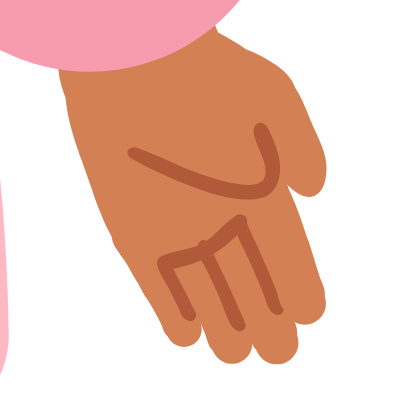
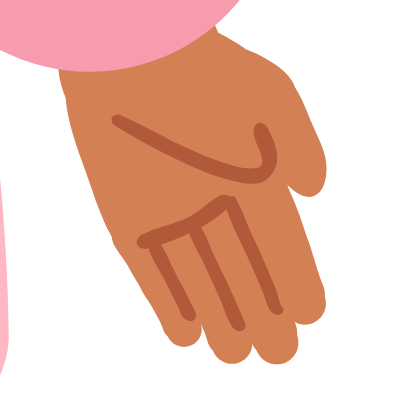
R19 SHIP + polish: far palm lines toward the wrist, buried comb caps, near thenar follows thumb; char_check lints mid-line comments

Changed region(s): [[0.2476, 0.2786, 0.681, 0.65]]

diff --git a/engine/hand.js b/engine/hand.js
@@ -119,7 +119,7 @@ export function makeHand(spec) {
     // the thumb-side envelope follows the thumb: as it ADDUCTS toward the palm (library ts < 0) the envelope pulls in with it
     // (continuous in the pose), so it never stands proud of a tucked thumb (R15 press kink)
     const tsLib = -(ctx.pose?.bones?.[`${id}.ts`] ?? 0) * S.thumbSide, tFoldE = ['t0', 't1', 't2'].reduce((acc, b) => acc + (ctx.pose?.bones?.[`${id}.${b}`] ?? 0), 0);
-    const thE = S.thenarEdge.map((v, k) => (k === 0 ? v : v - (v - 1.0) * Math.min(0.5, clamp01(Math.max(-tsLib / 12, tFoldE / 70)))));   // capped: a notch stays on the outer edge so the silhouette still says 'thumb'   // follows adduction AND flexion of the thumb   // only the distal anchor: the proximal one sits over the thenar pad, which stays put
+    const thE = S.thenarEdge.map((v, k) => (k === 0 ? v : v - (v - 1.0) * Math.min(S.view === 'back' ? 1 : 0.5, clamp01(Math.max(-tsLib / 12, tFoldE / 70)))));   // capped: a notch stays on the outer edge so the silhouette still says 'thumb'   // follows adduction AND flexion of the thumb   // only the distal anchor: the proximal one sits over the thenar pad, which stays put
     const palm = [
       P(-0.7 * wW, -0.7 * wW), add(lerp(P(-0.04, -wW), pinkyRoot, 0.5), mulS(n, -S.hypo)), [...pinkyRoot, { c: true, ai: inA(pinkyRoot, add(lerp(P(-0.04, -wW), pinkyRoot, 0.5), mulS(n, -S.hypo)), pinkyA + 180, pkCurl), ti: 1.05 - 0.5 * pkCurl, ao: Math.atan2(F[3].k[1] - pinkyRoot[1], F[3].k[0] - pinkyRoot[0]) * 180 / Math.PI }],   // corner: arrives along the pinky's edge, leaves ACROSS the knuckle (never bulges past it when the pinky curls)   // arrives tangent to the pinky's outer edge   // R9: one convex edge from the wrist to the pinky's root (no dent, no step)
       ...[3, 2, 1].map(webAt), add(kn[0], mulS(u, 0.018)),   // WEBBING: between two knuckles the palm's edge dips to where the fingers meet (≈ webK of the first phalanx) — hidden when the fingers are together, the V of skin between spread fingers, and no enclosed gap at the roots
@@ -175,7 +175,7 @@ export function makeHand(spec) {
       const PK = posed(`${fid}a`, f.k, f.k), PP = posed(`${fid}b`, f.p, f.p), PQ = posed(`${fid}c`, f.q, f.q), PT = posed(`${fid}c`, f.t, f.q), PR = posed(`${fid}s`, root, f.k);
       const bdir = (b) => rot(dK, ctx.st ? ctx.st[b].rot : 0);
       /** rest distance along the finger from the knuckle → posed point + posed direction */
-      const along = (dd) => dd <= La ? [lerp(PK, PP, clamp01(dd / La)), bdir(`${fid}a`)] : dd <= La + Lb ? [lerp(PP, PQ, (dd - La) / Lb), bdir(`${fid}b`)] : [lerp(PQ, PT, clamp01((dd - La - Lb) / Lc)), bdir(`${fid}c`)];
+      const along = (dd) => dd <= La ? [lerp(PK, PP, Math.min(1, dd / La)), bdir(`${fid}a`)] : dd <= La + Lb ? [lerp(PP, PQ, (dd - La) / Lb), bdir(`${fid}b`)] : [lerp(PQ, PT, clamp01((dd - La - Lb) / Lc)), bdir(`${fid}c`)];
       const EP = along(La + dE)[0], MP = along(La + dM)[0];
       out.push({ id: fid, bone: `${fid}c`, z: zf, fill, world: true,
                  geom: tubeOf([PR, PK, PP, MP, EP], [f.r[0] * 0.8, f.r[0], f.r[1], rAt(dM), rAt(dE)], 0, S.tipK, 'none') });   // round fingertip pad; FLAT root sunk in the palm (a round root bulges past the palm's edge)
@@ -265,7 +265,8 @@ export function makeHand(spec) {
       const ok = rs.length >= 2, along0 = (j) => rot(norm(sub(F[j].p, F[j].k)), ctx.st ? ctx.st[`${id}.f${j + 1}a`].rot : 0);   // posed first-phalanx direction
       if (ok) {
         const fd = norm([0, 1, 2, 3].reduce((acc, j) => add(acc, along0(j)), [0, 0])), bow = mulS(fd, 0.015 * clamp01(mcpAvg / 40));
-        let b0 = rs[rs.length - 1]; const b2 = rs[0], bm = add(rs.length > 2 ? rs[1] : lerp(b0, b2, 0.5), bow), half = (pt) => lerp(bm, pt, keepB);
+        const sink = mulS(fd, -0.008), rsS = rs.map((p_) => add(p_, sink));   // the spine runs half a line width toward the wrist of the line starts: their round caps are buried in it (no nubs at the T-joins)
+        let b0 = rsS[rsS.length - 1]; const bmid = add(rsS.length > 2 ? rsS[1] : lerp(b0, rsS[0], 0.5), bow), b2 = add(rsS[0], mulS(norm(sub(rsS[0], bmid)), 0.012)), bm = bmid, half = (pt) => lerp(bm, pt, keepB);   // pinky end runs 0.012 H past its line: a T, not an L
         // clearance from the crease ≥ creaseGap: shorten the spine from its index end, never move the crease
         if (creaseP) { const dmin = (pt) => Math.min(...creaseP.map((c) => Math.hypot(c[0] - pt[0], c[1] - pt[1])));
           for (let k = 0; k < 10 && dmin(half(b0)) < S.creaseGap; k++) b0 = lerp(b0, bm, 0.15); }

diff --git a/characters/mum2/params.js b/characters/mum2/params.js
@@ -99,7 +99,7 @@ export const handSpecs = {
   // far (her left) hand: palm toward us, thumb on the OUTER edge (her front = right), lying in front of the palm; its
   // inner edge is drawn as a line over the palm (as in the reference)
   far: { id: 'hand.far', parentBone: 'hand.far', wrist: joints.wristFar, dir: dirTo(joints.wristFar, lm('fingertipFar')) - 4, view: 'palm',
-         length: 0.38, palmFrac: 0.52, wristW: 0.25, palmW: 0.265, hypo: 0.0, thumbSide: 1, fingerK: 1.08, fingerLen: [0.84, 1.0, 0.9, 0.72], across: [0.3, 0.08, -0.15, -0.37], flexFx: -0.14,
+         length: 0.38, palmFrac: 0.52, wristW: 0.25, palmW: 0.265, hypo: 0.0, thumbSide: 1, fingerK: 1.08, fingerLen: [0.84, 1.0, 0.9, 0.72], lineStart: -0.25, crease: [[0.0, -0.4]], creaseHook: [0.68, 0.5], across: [0.3, 0.08, -0.15, -0.37], flexFx: -0.14,   // R19: the palm's line system sits toward the wrist (reference landmark band): long finger lines, crease on the heel
          thumbFx: -0.35, thumb: { cmc: [0.0, 0.6], mcp: [0.3, 1.15], dir: -3, w: 1.05 }, thenarEdge: [1.35, 1.32], thumbLine: false, order: [3, 2, 1, 0] },   // its inner edge is drawn by the crease stroke   // thumb lies ALONG the outer edge in front of the palm (adducted), tip at ~45% of the hand
 };
 

diff --git a/characters/mum2/critic_log.md b/characters/mum2/critic_log.md
@@ -103,3 +103,7 @@ Audits: pixel 0 on stand and on 6/7 library poses (open: logged staging tangent)
 Asked: (HIGH) far cup reads as a mitten (comb faded too early): keep the comb through cup, spine in posed space through the line starts, bowing with knuckle flexion; (HIGH) far press: crease hook dragged onto the comb by the thumb's skinning (a knot): hook on the palm, clearance ≥ 0.04 H; (med) far thumb in grip/fist/point: no barbs; (low) near cup thenar shelf; polish.
 Done: crease built IN POSED SPACE — long arm + hook on the palm (hand bone), only the up-arm on the thumb (t1); hook at [0.86, 0.55] (clear of the finger roots); comb spine IN POSED SPACE through the posed starts of the separation lines (T-joins by construction), bowing 0.015 H toward the fingertips with knuckle flexion, shortened from its index end to keep creaseGap 0.04 from the crease; palm-view comb fades [65, 30] (lines) and (mcp−42)/12 (spine): present in cup, gone cleanly in grip/fist; folded-thumb outline fades out by tFold 80 (no barbs in grip). Note on scope: the planned shots never show the far hand palm-on in a curl — hands on the bump and hand to mouth are BACK views (the far hand turns its back to us when it rests on the bump); the far palm view is the hanging/idle hand.
 Audits: pixel 0 on stand and 6/7 library poses (open: logged staging tangent); corners: one 17° micro-bend on stand (≈1.4 px at 1080).
+
+## R19 — 4/4/4/4/4/4 — SHIP (hands: R18 HIGHs landed; back-view hands read as real hands; library distinct)
+Polish applied after SHIP (critic's med items): far palm line system moved toward the wrist (lineStart −0.25: lines begin just above the knuckles; crease start [0, −0.4] on the heel; hook [0.68, 0.5]) so the comb reads as finger divisions, not glyphs; the spine runs half a line width wrist-side of the line starts (round caps buried, no nubs) and ends in a T past the pinky line; near (back-view) thenar envelope follows thumb flexion/adduction fully (no shelf in press/cup). Remaining polish (logged, not blocking): near thumb–index web as a round U; grip/fist knuckle hull; open-pose curl; 1–2 px micro-steps at the far wrist cuff and shoulder cap.
+Process lessons (for the skill): measure hands against the reference (hand_fit) before any eye-judgement; build foreshortening parts in POSED space (skinning shears them); line systems that can touch must be built in the same space as what they attach to; audit outline corners (corner_audit), not only thin features; char_check now lints mid-line comments (an edit that leaves `// …` before more `key: value,` silently drops those keys — 5 incidents).
